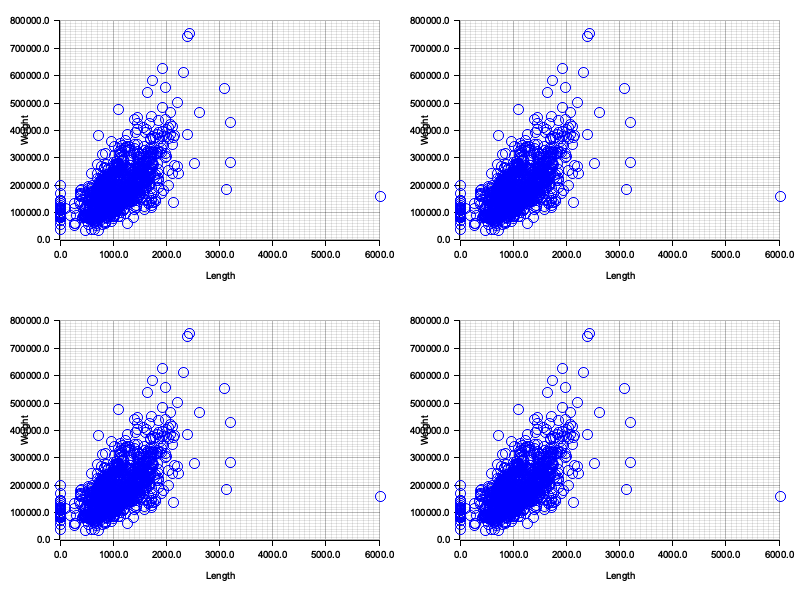
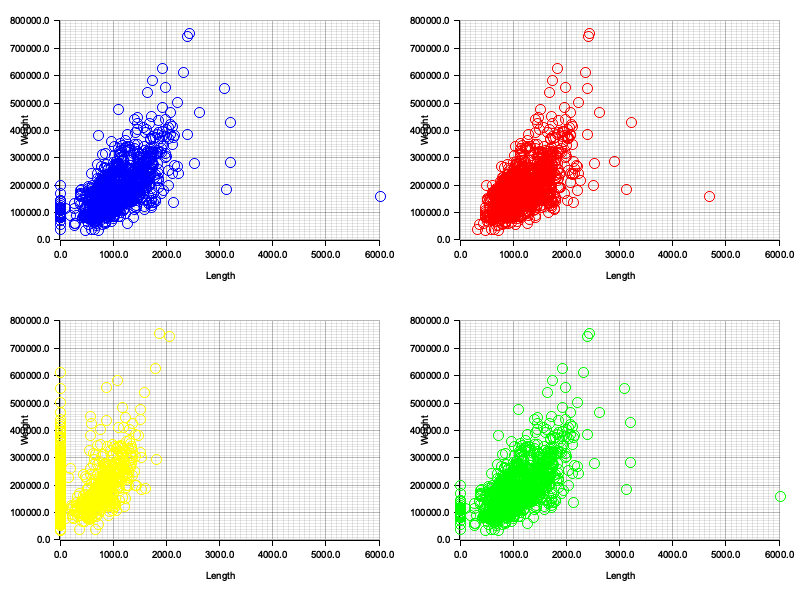
feat:style

diff --git a/src/house_price/house_price.rs b/src/house_price/house_price.rs
@@ -123,29 +123,46 @@ pub fn main(){
 
 
     /*TotalBsmtSF */
-    // let total_bsmt_sf_data= train_df.column("TotalBsmtSF").unwrap();
-    // let total_bsmt_sf_data:Vec<i64> = total_bsmt_sf_data.i64().unwrap().into_no_null_iter().collect();
-    // let total_bsmt_sf_data:Vec<f64> = total_bsmt_sf_data.into_iter().map(|x|x as f64).collect();
     let total_bsmt_sf_data= train_df.select(&["TotalBsmtSF","SalePrice"]).unwrap();
     let total_bsmt_sf_data= total_bsmt_sf_data.to_ndarray::<Int64Type>(IndexOrder::Fortran).unwrap();
-    
-    let mut x_train: Vec<Vec<_>> = Vec::new();
+    let mut total_bsmt_sf_data_vec: Vec<Vec<_>> = Vec::new();
     for row in total_bsmt_sf_data.outer_iter() {
         let row_vec: Vec<_> = row.iter().cloned().collect();
-        x_train.push(row_vec);
+        total_bsmt_sf_data_vec.push(row_vec);
     }
-    println!("{:?}",x_train);
+    let one_st_flr_sf_data= train_df.select(&["1stFlrSF","SalePrice"]).unwrap();
+    let one_st_flr_sf_data= one_st_flr_sf_data.to_ndarray::<Int64Type>(IndexOrder::Fortran).unwrap();
+    let mut one_st_flr_sf_data_vec: Vec<Vec<_>> = Vec::new();
+    for row in one_st_flr_sf_data.outer_iter() {
+        let row_vec: Vec<_> = row.iter().cloned().collect();
+        one_st_flr_sf_data_vec.push(row_vec);
+    }
 
+    let two_st_flr_sf_data= train_df.select(&["2ndFlrSF","SalePrice"]).unwrap();
+    let two_st_flr_sf_data= two_st_flr_sf_data.to_ndarray::<Int64Type>(IndexOrder::Fortran).unwrap();
+    let mut two_st_flr_sf_data_vec: Vec<Vec<_>> = Vec::new();
+    for row in two_st_flr_sf_data.outer_iter() {
+        let row_vec: Vec<_> = row.iter().cloned().collect();
+        two_st_flr_sf_data_vec.push(row_vec);
+    }
+
+    
     let root = BitMapBackend::new("./src/house_price/house_price.png", (800, 600)).into_drawing_area();
     root.fill(&WHITE).unwrap();
-   
+     let data= [
+        ("total_bsmt_sf",total_bsmt_sf_data_vec.clone(),BLUE),
+        ("1stFlrSF",one_st_flr_sf_data_vec,RED),
+        ("two_st_flr_sf_data_vec",two_st_flr_sf_data_vec,YELLOW),
+        ("total_bsmt_sf",total_bsmt_sf_data_vec.clone(),GREEN),
+
+        ];
     let drawing_areas = root.split_evenly((2, 2));
     for (drawing_area, idx) in drawing_areas.iter().zip(1..) {
         let x_range = 0.0..6000.0; // Adjust the x-axis range based on your data
         let y_range = 0.0..800000.0; // Adjust the y-axis range based on your data
-    
-    
-        let mut chart = ChartBuilder::on(&drawing_area)
+         
+        println!("{}",idx);
+        let mut chart: ChartContext<'_, BitMapBackend<'_>, Cartesian2d<plotters::coord::types::RangedCoordf64, plotters::coord::types::RangedCoordf64>> = ChartBuilder::on(&drawing_area)
         .margin(20)
         .x_label_area_size(40)
         .y_label_area_size(40)
@@ -159,23 +176,12 @@ pub fn main(){
         .draw()
         .unwrap();
 
-    // chart
-    //     .draw_series(
-    //         total_bsmt_sf_data
-    //             .iter()
-               
-    //             .map(|(x)| {
-    //                 Circle::new((*x, *x), 5, Into::<ShapeStyle>::into(&RGBColor(255, 0, 0)))
-    //             }),
-    //     )
-    //     .unwrap();
-
     chart
         .draw_series(
-            x_train
+            data[idx as usize-1].1
                 .iter()
                 .map(|x| {
-                    Circle::new((x[0]as f64, x[1]as f64), 5, Into::<ShapeStyle>::into(&RGBColor(0, 0, 255)))
+                    Circle::new((x[0]as f64, x[1]as f64), 5, Into::<ShapeStyle>::into(data[idx as usize -1].2))
                 }),
         )
         .unwrap();
